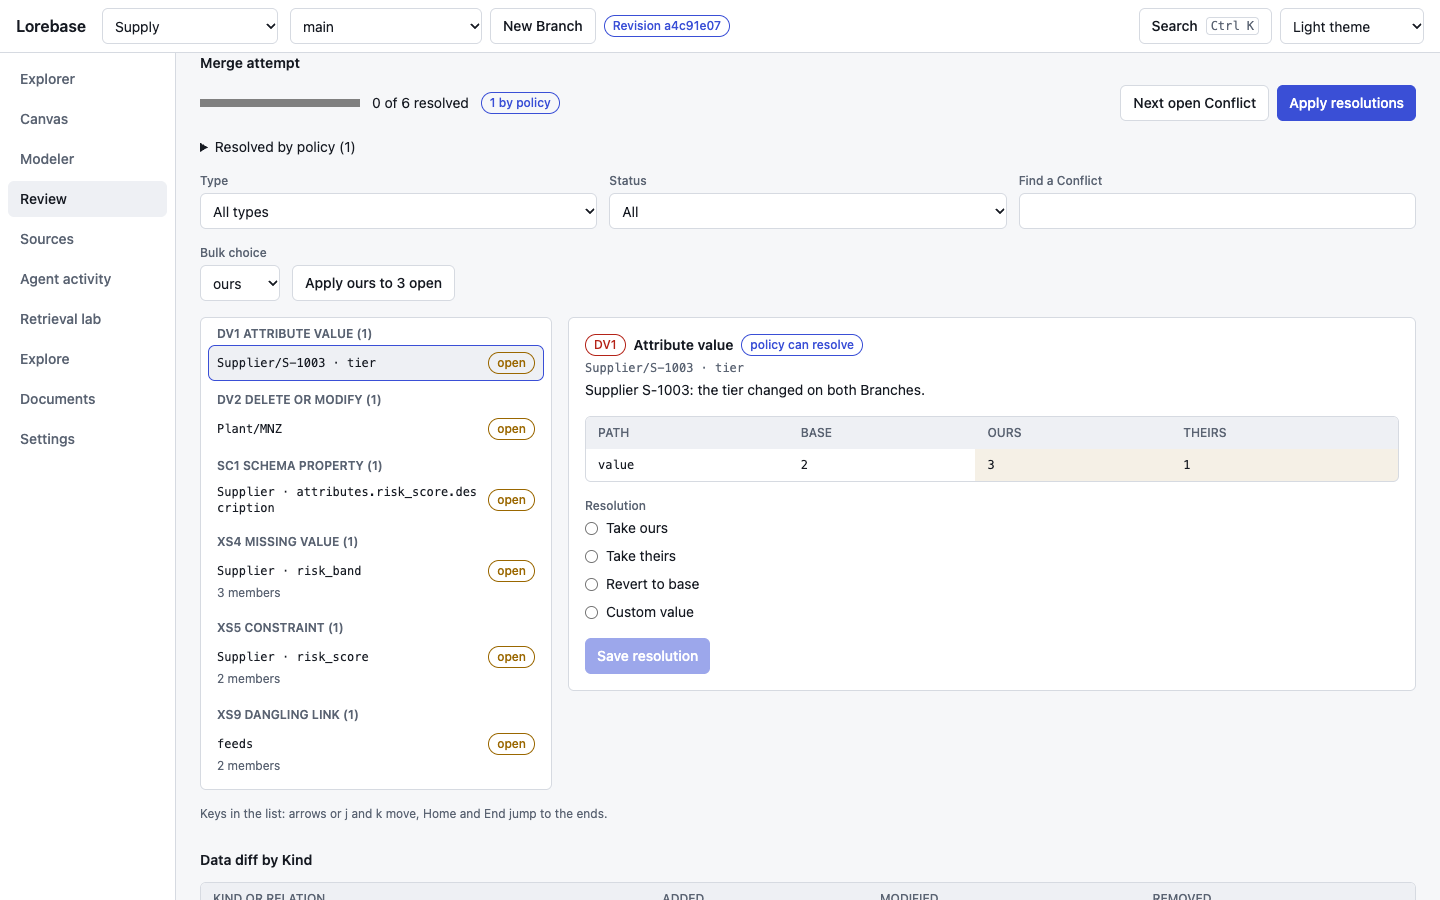
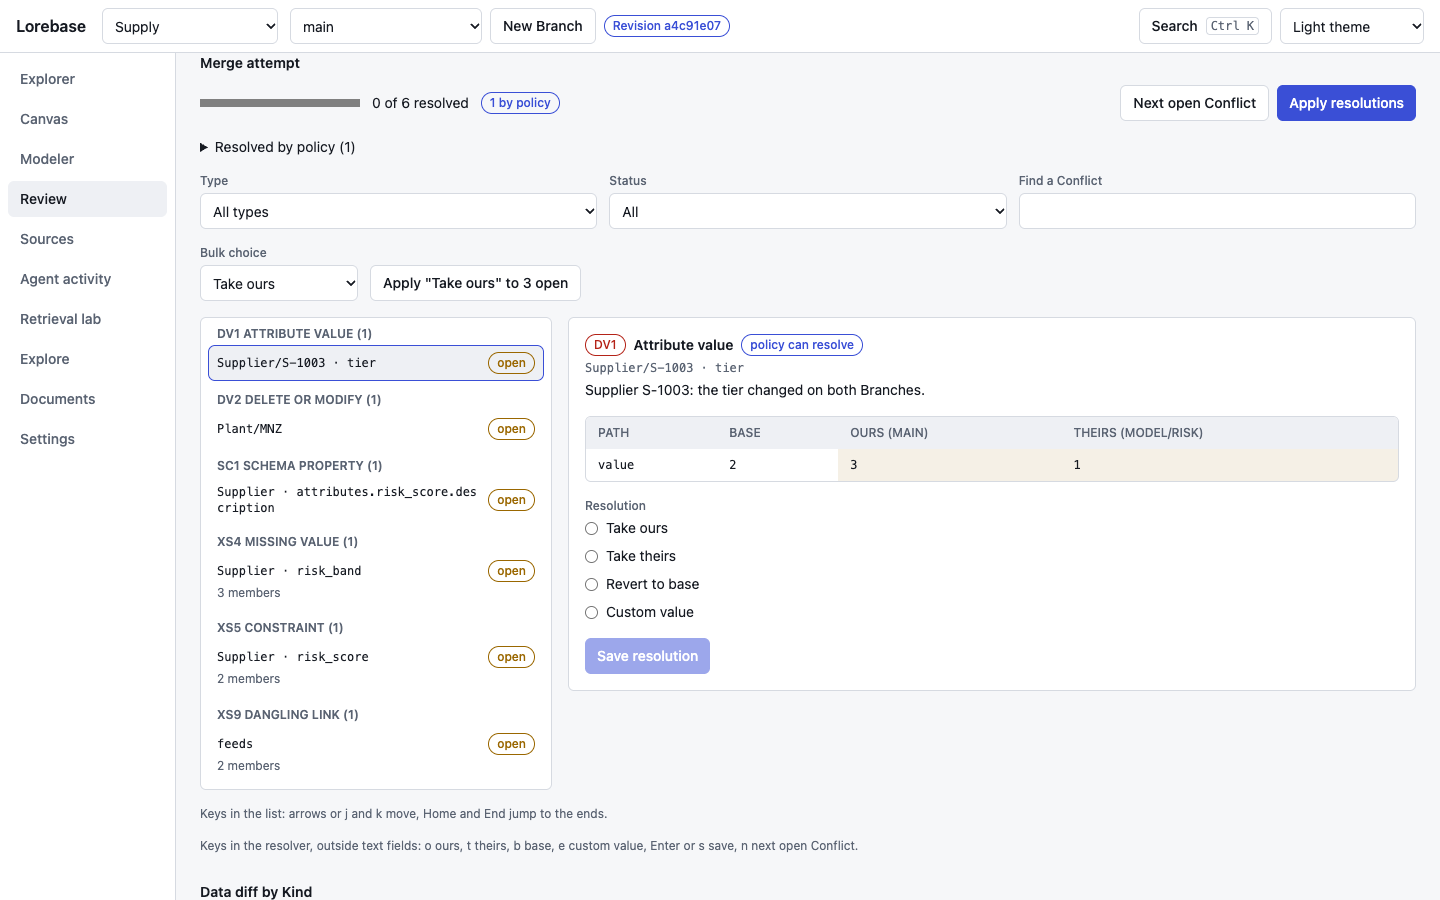
Refresh the resolver screenshots and docs for text merge

diff --git a/apps/web/scripts/screenshots.ts b/apps/web/scripts/screenshots.ts
@@ -21,7 +21,7 @@
  * same-origin proxy to that Keeper (`/api`) and guide service (`/guide`), and asks the guide one
  * question for the Explore picture. The pictures a demo stack cannot show (Start from data,
  * Source runs, a Proposal with Conflicts) come from the mock: `pnpm screenshots --only
- * modeler-start,modeler-source-mapping,sources,review-conflict`. docs/tour.md lists which is which.
+ * modeler-start,modeler-source-mapping,sources,review-conflict,review-passages`. docs/tour.md lists which is which.
  *
  * `--only documents,review-items` takes just the named pictures.
  *
@@ -241,6 +241,18 @@ const MOCK_SHOTS = (domain: string): Shot[] => [
     ready: '[role=listbox][aria-label="Conflicts"] [role=option]',
     steps: [
       { click: '[role=listbox][aria-label="Conflicts"] [role=option]' },
+      { wait: 400 },
+      { scrollToTop: 'text=Merge attempt', offset: 80 },
+    ],
+  },
+  {
+    name: 'review-passages',
+    path: `/${domain}/review/45`,
+    ready: '[role=listbox][aria-label="Conflicts"] [role=option]',
+    steps: [
+      { click: '[role=listbox][aria-label="Conflicts"] [role=option]' },
+      { waitFor: '[role=group][aria-label^="Conflicting passage 1"]' },
+      { click: '[role=group][aria-label^="Conflicting passage 1"] label:has-text("Both, ours then theirs") input' },
       { wait: 400 },
       { scrollToTop: 'text=Merge attempt', offset: 80 },
     ],

diff --git a/apps/web/README.md b/apps/web/README.md
@@ -53,7 +53,7 @@ pnpm screenshots
 
 `pnpm screenshots --live --keeper http://127.0.0.1:8080` takes the same pictures from the app in live mode (`--keeper` falls back to `LOREBASE_E2E_URL`). The script loads the supply sample under a Domain of its own through the REST API (the loader of the end-to-end tests, `e2e/supply.ts`), prepares a Proposal with two Conflicts, builds the app with `VITE_API_MODE=live` and a same-origin proxy to Keeper, and drops the Domain afterwards (`--keep` leaves it). Keeper must run with authentication off and `keeper.proposals.allow_self_approval: true`, as the end-to-end stack does. The pictures in `docs/images/` are the live ones; without `--live` the mock produces them as before. `tour.gif` is recorded in mock mode only.
 
-**From a running demo stack, read only (the pictures of docs/tour.md).** `pnpm screenshots --live --keeper http://127.0.0.1:8090 --domain supply --guide http://127.0.0.1:8090` uses the existing Domain as it is: nothing is loaded, reviewed, merged or dropped. It builds the current app in live mode, serves it with a same-origin proxy to that Keeper (`/api`) and to the guide service (`/guide`, with the guide's own origin, so its `allowed_origins` need no change), reads the ids it needs (an open extraction Proposal, a guide session) with GET requests, and takes the `DEMO_SHOTS`: Explorer, a Record and its History, the Canvas, the Modeler editors and previews, typo-tolerant and hybrid search in the Retrieval lab, Review with extraction items and schema suggestions, Documents, Explore with a real answer of the guide service (one question; the guide records its trace) and that trace in Agent activity, Settings and the dark Explorer. Then take the pictures a demo stack cannot show from the mock: `pnpm screenshots --only modeler-start,modeler-source-mapping,sources,review-conflict`.
+**From a running demo stack, read only (the pictures of docs/tour.md).** `pnpm screenshots --live --keeper http://127.0.0.1:8090 --domain supply --guide http://127.0.0.1:8090` uses the existing Domain as it is: nothing is loaded, reviewed, merged or dropped. It builds the current app in live mode, serves it with a same-origin proxy to that Keeper (`/api`) and to the guide service (`/guide`, with the guide's own origin, so its `allowed_origins` need no change), reads the ids it needs (an open extraction Proposal, a guide session) with GET requests, and takes the `DEMO_SHOTS`: Explorer, a Record and its History, the Canvas, the Modeler editors and previews, typo-tolerant and hybrid search in the Retrieval lab, Review with extraction items and schema suggestions, Documents, Explore with a real answer of the guide service (one question; the guide records its trace) and that trace in Agent activity, Settings and the dark Explorer. Then take the pictures a demo stack cannot show from the mock: `pnpm screenshots --only modeler-start,modeler-source-mapping,sources,review-conflict,review-passages`.
 
 `--only documents,review-items` takes just the named pictures. A failed picture is reported and the others are still taken; the run then exits with an error naming the failures.
 
@@ -140,7 +140,7 @@ The mock is a plain object that implements the same `KeeperApi` interface as the
 
 - Reads: Domains, Branches (with ahead and behind counts against the default Branch), log, schema per Branch, Records with the query DSL (`where` with `and`, `or`, `not`, `via` and `derived`, ordering, cursor paging), Links in both directions, Lineage, history, search, neighborhood, diff between Branches.
 - Writes: create and delete Branches, create, review, close and merge Proposals, resolve Conflicts, decide extraction items (staged edits, the re-materialized extraction Branch, the 422 of a Contract without its Link), store and list documents, create Domains, commit schema change sets.
-- Merge attempts: Proposal 41 (`model/risk` into `main`) carries six Conflicts of six kinds (`SC1`, `DV1`, `DV2`, `XS4`, `XS5`, `XS9`) and one automatic policy Resolution; Proposal 43 carries one `DV1`. The Conflicts are seeded, not recomputed from the Branches. Resolutions are stored by fingerprint and checked against the Conflict (choice allowed for its kind, `value` or `values` only on `custom`, a value for every member of a group). `POST .../merge` applies them to a copy of the source state, schema changes first, and re-validates custom values against the merged schema: a refused Resolution is dropped and its reason is kept on the Conflict (`details.rejected`). It answers `merged` with a merge Revision (parents: target head, source head) or `conflicts` with the attempt that remains. The target does not change until every Conflict is resolved.
+- Merge attempts: Proposal 41 (`model/risk` into `main`) carries six Conflicts of six kinds (`SC1`, `DV1`, `DV2`, `XS4`, `XS5`, `XS9`) and one automatic policy Resolution; Proposal 43 carries one `DV1`; Proposal 45 carries a `DV1` on a `text` Attribute with `details.text_hunks` (the passage view). The Conflicts are seeded, not recomputed from the Branches. Resolutions are stored by fingerprint and checked against the Conflict (choice allowed for its kind, `value` or `values` only on `custom`, a value for every member of a group). `POST .../merge` applies them to a copy of the source state, schema changes first, and re-validates custom values against the merged schema: a refused Resolution is dropped and its reason is kept on the Conflict (`details.rejected`). It answers `merged` with a merge Revision (parents: target head, source head) or `conflicts` with the attempt that remains. The target does not change until every Conflict is resolved.
 - Schema change sets: `applyChanges` runs the commands on the Branch schema, checks the structural rules (names, references, types, constraints, cardinality, Trait mappings), migrates the stored Records and Links (casts with the safe, checked and forbidden rules, defaults, dropped Attributes and Kinds) and reports the migrations. A checked cast that fails on a stored value, or a new required Attribute without a default, makes the set invalid and commits nothing. A protected Branch refuses a commit (409 `protected-branch`) but answers a dry run. Built-in Operations are generated for new Kinds.
 - Inference, Sources and Admin: `schema:infer` answers with the recorded output of the real inference on `examples/supply/data` (the run behind the gold test: 6 of 6 Kinds and keys, 44 of 47 Attribute types, 7 of 7 Relations), narrowed to the tables the request names (file names for CSV, `tables` for Postgres); it does not read the uploaded bytes. Only `secret://env/ERP_DSN` is allowlisted for Postgres. Source runs are sample data, and a sync queues a job that the mock runs at once with nothing new to read. API keys, principals, grants and the audit log are kept in memory; creating or revoking a key, a sync and an inference write audit entries, newest first, with a chained hash.
 - Documents and extraction items: the library of `supply` holds the four texts of `examples/supply/documents` (verbatim, so the offsets of the items stay valid), a PDF and a scanned PDF whose job failed. Proposal 44 holds 13 items from those four documents: the first two are the output shown in `docs/extraction.md` (the Contract C-3025 and its `with_supplier` Link), the rest are rule, local-model and chat-model items with an ambiguous match, a rejected item and one accepted at once; Proposal 42 holds four accepted items from the PDF. Deciding items rebuilds the extraction Branch from the accepted ones over the target Branch as it was, so the diff of the Proposal follows the decisions. The sample Contract has a few Attributes more (`start_date`, `annual_value`, `currency`, `incoterm`, `payment_terms_days`) and `main` has the Suppliers, Part and Plants those documents name. A new upload is stored (Markdown and text keep their text for the viewer, a repeated file answers `duplicate`), its job moves from queued to running to succeeded on the next two reads, and it ends with no items: the mock does not extract. URL intake accepts `https://documents.example.test/...` only.

diff --git a/docs/tour.md b/docs/tour.md
@@ -8,7 +8,7 @@ The screens are domain-agnostic: every name in the pictures (Kinds, Records, the
 
 ![Explorer, a Record, the Canvas, a Source mapping with its sample preview and the Review resolver in one pass](images/tour.gif)
 
-The animation is recorded in mock mode with `pnpm screenshots flow`. The pictures are regenerated in `apps/web` with `pnpm screenshots --live --keeper <url> --domain <id> --guide <url>` against a running stack, and the mock ones with `pnpm screenshots --only modeler-start,modeler-source-mapping,sources,review-conflict`; see [apps/web/README.md](../apps/web/README.md#screenshots).
+The animation is recorded in mock mode with `pnpm screenshots flow`. The pictures are regenerated in `apps/web` with `pnpm screenshots --live --keeper <url> --domain <id> --guide <url>` against a running stack, and the mock ones with `pnpm screenshots --only modeler-start,modeler-source-mapping,sources,review-conflict,review-passages`; see [apps/web/README.md](../apps/web/README.md#screenshots).
 
 ## Explorer
 
@@ -127,6 +127,10 @@ Kinds, Attributes and Relations that documents mention and the schema lacks, wit
 ![Review, Conflict resolver](images/review-conflict.png)
 
 Two Branches changed the same values, and the Proposal that merges the second ends up with Conflicts. Conflicts are grouped by type, filterable, and one is selected in the URL; they are named by Kind, key and Attribute, not by internal ids. The resolver shows base, ours and theirs side by side, with the Branch names in the headers and the words each side added or removed marked in text values, and offers only the resolutions that fit the Conflict (take ours, take theirs, revert to base, custom value, which can start from a copy of any side); grouped Conflicts take one value per member. Saving opens the next open Conflict, and outside text fields `o`, `t`, `b`, `e`, `s` or Enter, and `n` do the same from the keyboard. A text value that changed in the same sentences on both Branches is shown passage by passage: each conflicting passage takes ours, theirs, both or the base, or an edit in place, and a live preview shows the composed text against the Attribute's length limits before "Use merged text" saves it. Leaving a Conflict with unsaved changes asks first. "Apply resolutions" asks for confirmation while Conflicts remain, then asks Keeper to merge: while Conflicts remain it answers with the attempt, once every Conflict is resolved and the target has its approvals it creates the merge Revision. Mock.
+
+![Review, a text Conflict by passage](images/review-passages.png)
+
+The passage view of a text Conflict: the sentence only one Branch changed is already merged (shown as plain text), and each of the two conflicting passages has its base, ours and theirs with the changed words marked. Here the first passage takes both sides, ours then theirs, the second is still open, and the composed text below marks it as `[passage 2 is open]`. Mock.
 
 ## Explore
 

diff --git a/docs/faq.md b/docs/faq.md
@@ -62,7 +62,7 @@ Only through Operations. An Operation has parameters, validation and permissions
 
 ### How do conflicts work?
 
-Merging a source branch into a target uses a three-way merge against the common ancestor. The schema is merged first, then the data at attribute level, then the result is checked against the merged schema. Anything that cannot be merged automatically becomes a typed Conflict with a base, an ours and a theirs value: a changed attribute, a delete against a modify, a value that no longer casts to a changed type, a cardinality violation, a dangling link and so on. Each kind offers only the resolutions that make sense (take ours, take theirs, revert to base, custom value, relax a rule). The engine is complete and shown by `examples/merge_demo.py`, and Proposals expose it over REST: the Conflict listing, resolutions one by one or in bulk, and the merge. Callers whose grants are limited to some Kinds see and resolve only the Conflicts of those Kinds. The Review screen of the web app lists the Conflicts of a live Proposal, resolves them and merges, and `lorebase proposal conflicts|resolve` does the same from the command line. See the [taxonomy](design.md#69-conflict-taxonomy).
+Merging a source branch into a target uses a three-way merge against the common ancestor. The schema is merged first, then the data at attribute level (a `text` Attribute edited in different sentences on the two branches is merged sentence by sentence and only the sentences both sides changed conflict; `text_merge: false` turns this off), then the result is checked against the merged schema. Anything that cannot be merged automatically becomes a typed Conflict with a base, an ours and a theirs value: a changed attribute, a delete against a modify, a value that no longer casts to a changed type, a cardinality violation, a dangling link and so on. Each kind offers only the resolutions that make sense (take ours, take theirs, revert to base, custom value, relax a rule). The engine is complete and shown by `examples/merge_demo.py`, and Proposals expose it over REST: the Conflict listing, resolutions one by one or in bulk, and the merge. Callers whose grants are limited to some Kinds see and resolve only the Conflicts of those Kinds. The Review screen of the web app lists the Conflicts of a live Proposal, resolves them and merges, and `lorebase proposal conflicts|resolve` does the same from the command line. See the [taxonomy](design.md#69-conflict-taxonomy).
 
 ### Can I see what the knowledge base said last month?
 

diff --git a/docs/glossary.md b/docs/glossary.md
@@ -72,7 +72,7 @@ A request to merge one Branch into another, with diff, checks, reviews and Confl
 Example: Proposal #42 "Contracts batch October" proposes 280 new `Contract` Records, each with a quoted evidence span from a PDF.
 
 ### Conflict
-A disagreement found while merging. Attribute-level Conflicts arise when both sides changed the same value differently; structural Conflicts arise when the merged schema and data would break a rule (removed Kind with new Records, failed type cast, cardinality violation, and others).
+A disagreement found while merging. Attribute-level Conflicts arise when both sides changed the same value differently; structural Conflicts arise when the merged schema and data would break a rule (removed Kind with new Records, failed type cast, cardinality violation, and others). A long text edited in different sentences on each side is merged, not a Conflict; when the same sentence changed on both sides, the resolver shows the text passage by passage.
 
 Example: on `cleanup/tiers` Sofia set `Supplier/S-1001.tier` to `"1"` while the nightly sync set it to `"3"` on `main`: Conflict `DV1`, resolved by taking the ERP value under the authority policy.
 
